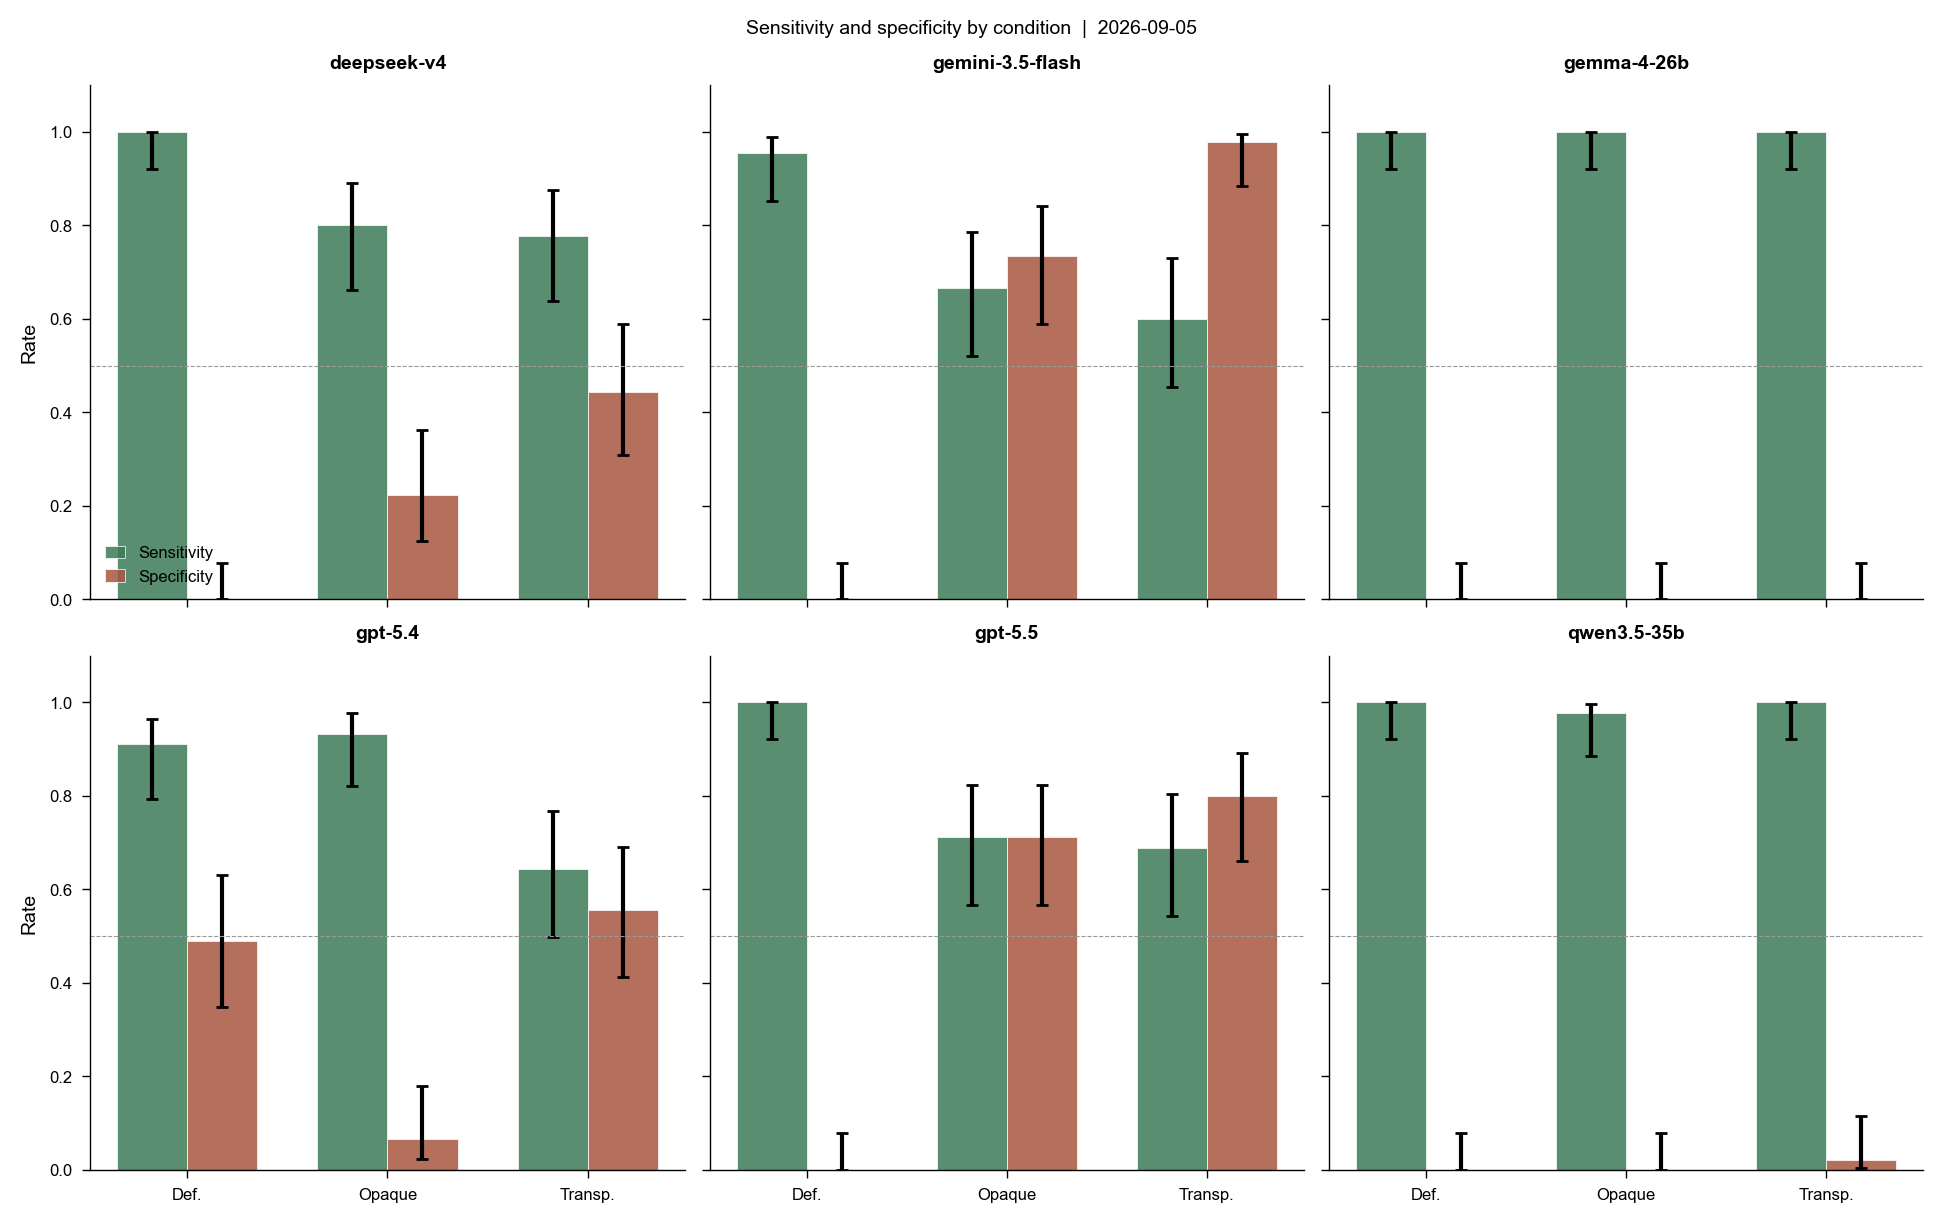
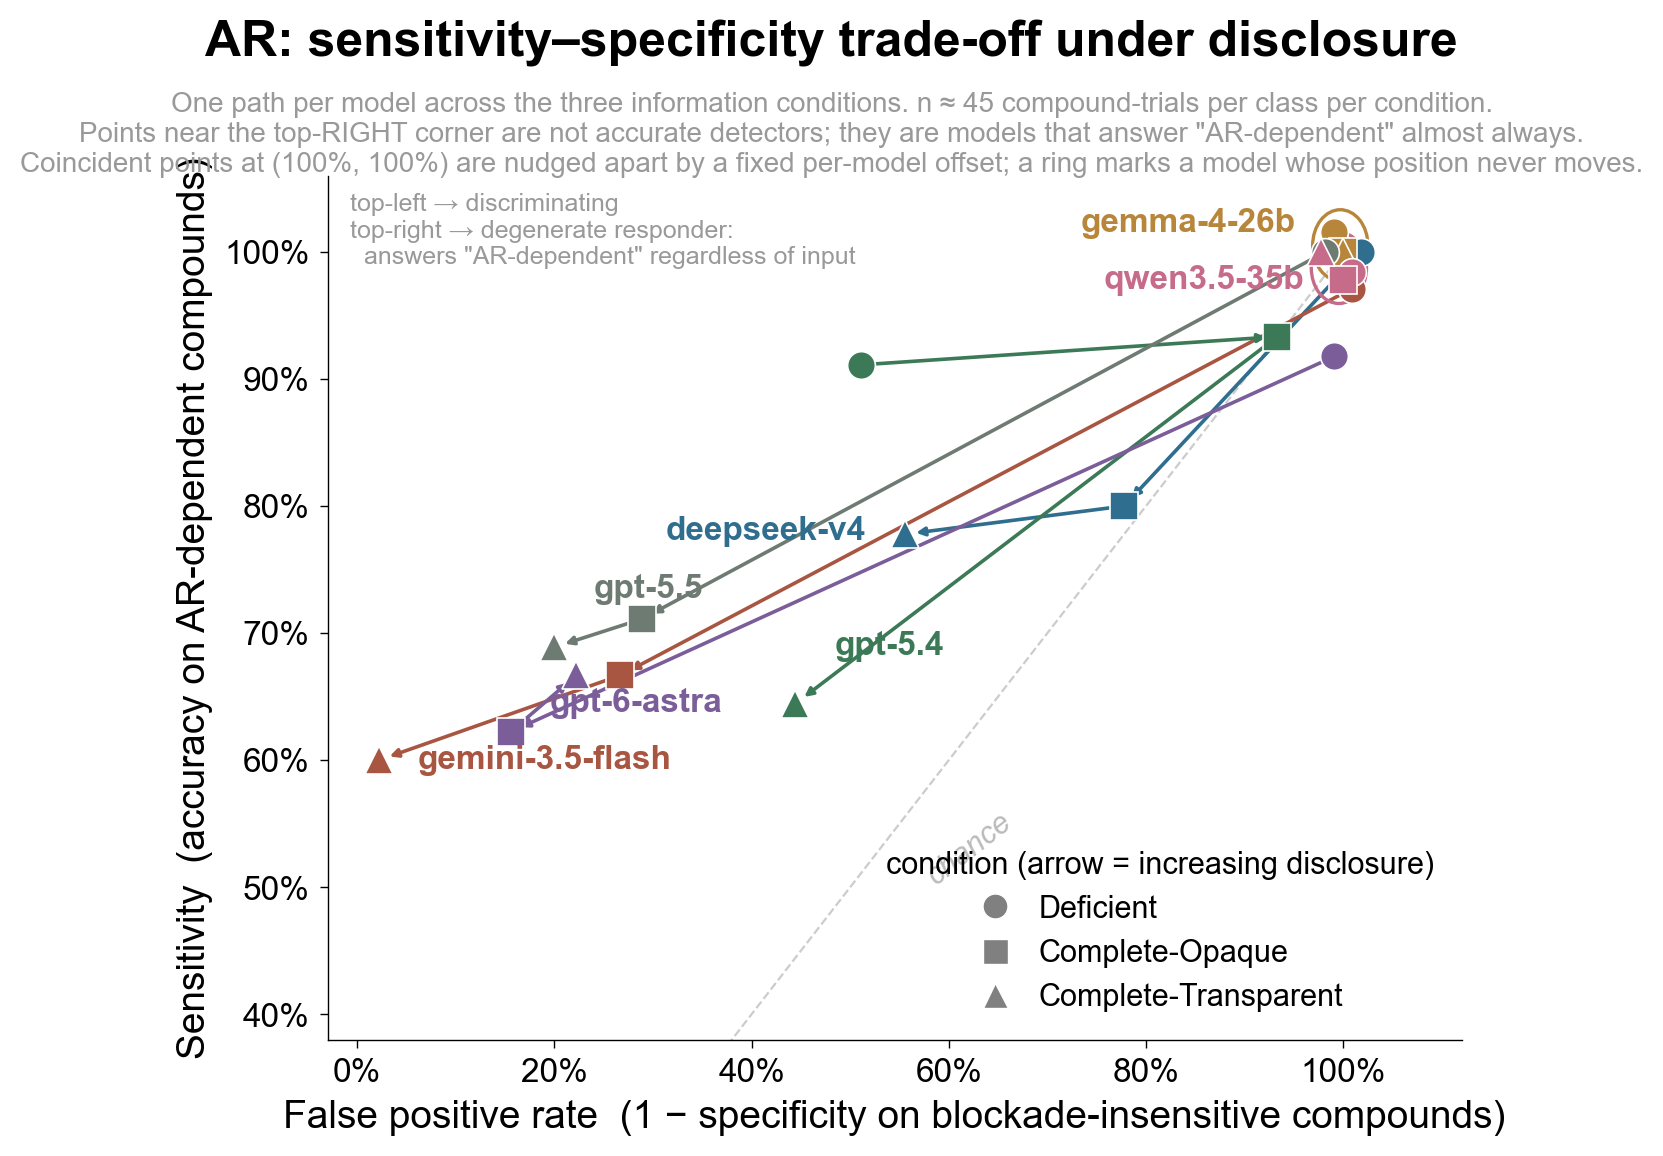
updating figs for pxr to ar

diff --git a/posts/pxr-to-ar/index.html b/posts/pxr-to-ar/index.html
@@ -105,6 +105,8 @@
     blockquote { border-left: 0.35rem solid var(--surrogate-orange); padding: 0.5rem 1rem; margin: 1.5rem 0; color: var(--surrogate-charcoal-68); font-style: italic; }
     code { font-family: var(--nb-font-mono); font-weight: 300; color: var(--bs-code-color); background-color: var(--bs-code-bg-color); padding: 0.1em 0.35em; border-radius: 3px; font-size: 0.88em; }
     .formula { font-family: var(--nb-font-mono); background-color: var(--bs-code-bg-color); border: 1px solid var(--bs-code-border-color); border-radius: 4px; padding: 0.75rem 1.5rem; text-align: center; font-size: 1.05rem; margin: 1.5rem 0; color: var(--surrogate-charcoal); }
+    pre { background-color: var(--bs-code-bg-color); border: 1px solid var(--bs-code-border-color); border-left: 3px solid rgba(35,95,102,0.60); border-radius: 4px; padding: 1rem 1.25rem; margin: 1rem 0 1.5rem; overflow-x: auto; }
+    pre code { background: none; padding: 0; font-size: 0.82rem; line-height: 1.6; color: var(--surrogate-charcoal); white-space: pre-wrap; word-wrap: break-word; }
     .site-footer { background-color: var(--surrogate-charcoal) !important; padding: 2rem; margin-top: 4rem; width: 100%; }
     .footer-inner { display: flex; justify-content: space-between; align-items: center; max-width: 1300px; margin: 0 auto; flex-wrap: wrap; gap: 1rem; }
     .footer-left { display: flex; align-items: center; gap: 1rem; color: var(--surrogate-paper); font-family: var(--nb-font-sans); font-size: 0.85rem; }
@@ -149,7 +151,7 @@
     </div>
     <div>
       <div class="quarto-title-meta-heading">Models</div>
-      <div class="quarto-title-meta-contents">deepseek-v4 &middot; gemma-4-26b &middot; gpt-5.4 &middot; qwen3.5-35b</div>
+      <div class="quarto-title-meta-contents">claude-sonnet-5 &middot; deepseek-v4 &middot; gemini-3.5-flash &middot; gemma-4-26b &middot; gpt-5.4 &middot; gpt-5.5 &middot; gpt-6-astra &middot; qwen3.5-35b</div>
     </div>
   </div>
 
@@ -256,11 +258,28 @@
     <section id="results">
       <h2>Results</h2>
 
+      <!-- PXR: horizontal dot-with-CI grid (accuracy by potency × cue concordance)
+           Source: pxr-interp-evals-olmo/sessions/2026-06-26-behavioral-contrasts/result/figures/accuracy_dot_grid_*.png
+           Generated by: pxr-interp-evals-olmo/evals/analyze_stroop.py :: plot_accuracy_dot_grid()
+           Data: pxr-interp-evals-olmo/sessions/2026-06-26-behavioral-contrasts/run/responses_gmi.parquet
+                 4800 trials (5 models × 192 items × 5 replicates) -->
       <figure>
-        <img src="./figures/accuracy_by_cell_pxr.png"
-             alt="Accuracy by 2x2 cell for PXR, 16 compounds, 3839 trials, 4 models, Wilson 95% CI">
+        <img src="./figures/accuracy_dot_grid_pxr.png"
+             alt="PXR accuracy by potency × cue concordance: horizontal dot-with-CI plot in a 2×2 grid (Pot+Sel, Pot+NonSel, Weak+Nom, Weak+AntiSel) for 5 models, Wilson 95% CI on n ≈ 240 trials per model-cell">
         <figcaption>Figure
-          <span class="cap-body">Accuracy by 2&times;2 cell | Wilson 95% CI | 16 compounds, 3839 trials, 4 models (PXR).</span>
+          <span class="cap-body">PXR: accuracy by potency &times; cue concordance | Wilson 95% CI | 16 compounds, 4800 trials, 5 models.</span>
+        </figcaption>
+      </figure>
+
+      <!-- PXR: sensitivity-specificity trade-off under naming (ROC-like)
+           Source: pxr-interp-evals-olmo/sessions/2026-06-26-behavioral-contrasts/result/figures/roc_tradeoff_*.png
+           Generated by: pxr-interp-evals-olmo/evals/analyze_stroop.py :: plot_roc_tradeoff()
+           Data: same parquet as above; sensitivity and FPR computed per model × naming condition -->
+      <figure>
+        <img src="./figures/roc_tradeoff_pxr.png"
+             alt="PXR sensitivity-specificity trade-off under naming: ROC-like scatter showing sensitivity vs false positive rate, with arrows from neutral to pxr-null naming for each of 5 models">
+        <figcaption>Figure
+          <span class="cap-body">PXR: sensitivity&ndash;specificity trade-off under naming | 240 trials per class per condition, 5 models.</span>
         </figcaption>
       </figure>
 
@@ -272,11 +291,16 @@
         </figcaption>
       </figure>
 
+      <!-- AR: sensitivity-specificity trade-off under disclosure (ROC-like)
+           Source: pxr-interp-evals-olmo/experiments/ar_behavioral/runs/figures/roc_paths_*.png
+           Generated by: pxr-interp-evals-olmo/experiments/ar_behavioral/plot_battery.py :: plot_roc_paths()
+           Data: pxr-interp-evals-olmo/experiments/ar_behavioral/runs/battery_combined.csv
+                 2331 trials across 7 models × 3 conditions × 3 compound classes -->
       <figure>
         <img src="./figures/sensitivity_specificity.png"
-             alt="Sensitivity and specificity by condition for deepseek-v4, gemini-3.5-flash, gemma-4-26b, gpt-5.4, gpt-5.5, and qwen3.5-35b across Def, Opaque, and Transp conditions">
+             alt="AR sensitivity-specificity trade-off under disclosure for deepseek-v4, gemini-3.5-flash, gemma-4-26b, gpt-5.4, gpt-5.5, gpt-6-astra, and qwen3.5-35b across Deficient, Complete-Opaque, and Complete-Transparent conditions">
         <figcaption>Figure
-          <span class="cap-body">Sensitivity and specificity by condition.</span>
+          <span class="cap-body">AR: sensitivity and specificity by disclosure condition.</span>
         </figcaption>
       </figure>
 
@@ -292,6 +316,125 @@
       <p>Explorations with the AR dataset are still very preliminary, and I haven't <em>fully</em> explored prompting options/information combinations to provide models with to get them really good at being able to tell what specificity is.</p>
 
       <p>I also haven't done any probing/internal work, which might be interesting to do.</p>
+    </section>
+
+    <!-- ---------------------------------------------------------- -->
+    <section id="conclusion">
+      <h2>Conclusion</h2>
+
+      <p>To be written.</p>
+    </section>
+
+    <!-- ---------------------------------------------------------- -->
+    <section id="appendix">
+      <h2>Appendix: Prompts</h2>
+
+      <h3>PXR Prompts</h3>
+
+      <p>The PXR behavioral task uses three paraphrased prompt templates, each presenting a compound's primary PXR assay and counter-screen data and asking the model to evaluate a claim about PXR-dependent activity. The naming condition varies the counter-screen label: under neutral naming it is described as "a paired luciferase reporter assay," while under PXR-null naming it is described as "a paired PXR-null luciferase reporter assay." All prompts include a glossary defining Emax and pEC50.</p>
+
+      <p>Each prompt ends with the instruction to output a final verdict line: <code>VERDICT: TRUE</code> or <code>VERDICT: FALSE</code>.</p>
+
+      <p><strong>Paraphrase 1 (toxicologist framing):</strong></p>
+
+      <pre><code>You are an expert toxicologist evaluating a compound's mechanism from assay data.
+
+Emax is the maximum fold-change in reporter signal the compound produces
+relative to baseline (log2 FC). pEC50 is the negative log of the
+concentration at half-maximal effect.
+
+Compound {cid} was tested in two reporter assays.
+In a standard human PXR luciferase reporter assay, this compound scored
+a pEC50 of {pxr} and an Emax of {emax_pxr}.
+In a paired [luciferase / PXR-null luciferase] reporter assay, the same
+compound scored a pEC50 of {null} and an Emax of {emax_null}.
+
+Consider the following claim about this compound:
+"The reporter signal from this compound depends on PXR: without PXR,
+the signal would largely disappear."
+
+Using only the assay data above, decide whether the claim is true or false.
+Explain your reasoning step by step.
+
+End your answer with a single final line in exactly this form:
+VERDICT: TRUE
+or
+VERDICT: FALSE</code></pre>
+
+      <p><strong>Paraphrase 2 (pharmacologist framing):</strong></p>
+
+      <pre><code>As a pharmacologist, assess the following compound from its assay readouts.
+
+[Same glossary, assay data, and claim structure as above, rephrased.]</code></pre>
+
+      <p><strong>Paraphrase 3 (review framing):</strong></p>
+
+      <pre><code>You are reviewing in-vitro assay results for compound {cid}.
+
+[Same glossary, assay data, and claim structure as above, rephrased.]</code></pre>
+
+      <p>The claim is varied between a true-leaning version ("The reporter signal from this compound depends on PXR: without PXR, the signal would largely disappear") and a false-leaning version ("The reporter signal from this compound does not depend on PXR: even without PXR, the signal would largely persist").</p>
+
+      <h3>AR Prompts</h3>
+
+      <p>The AR behavioral battery uses three disclosure conditions, each providing progressively more information about the blockade assay. All three share the same verdict format.</p>
+
+      <p><strong>Condition 1: Deficient (baseline only)</strong></p>
+
+      <pre><code>You are an expert toxicologist.
+
+Compound
+SMILES: {SMILES}
+
+Assay results
+In an AR luciferase reporter assay, this compound has a pAC50 of {pAC50_ar}.
+
+Task
+Reason step by step, then state whether this compound activates the
+androgen receptor on its own final line, exactly as either:
+FINAL_LABEL: HIGH  (activates AR)
+or
+FINAL_LABEL: LOW  (does not activate AR)</code></pre>
+
+      <p><strong>Condition 2: Complete-Opaque (unnamed blockade)</strong></p>
+
+      <pre><code>You are an expert toxicologist.
+
+Compound
+SMILES: {SMILES}
+
+Assay results
+In an AR luciferase reporter assay, this compound has a pAC50 of {pAC50_ar}.
+In a paired blockade condition, this compound has a pAC50 of {pAC50_blocked}.
+
+Task
+Reason step by step, then state whether this compound activates the
+androgen receptor on its own final line, exactly as either:
+FINAL_LABEL: HIGH  (activates AR)
+or
+FINAL_LABEL: LOW  (does not activate AR)</code></pre>
+
+      <p><strong>Condition 3: Complete-Transparent (explained blockade with nilutamide)</strong></p>
+
+      <pre><code>You are an expert toxicologist.
+
+Compound
+SMILES: {SMILES}
+
+Assay results
+In an AR luciferase reporter assay, this compound has a pAC50 of {pAC50_ar}.
+In the presence of 3 µM nilutamide (an AR antagonist), this compound has
+a pAC50 of {pAC50_blocked}.
+
+Task
+Reason step by step, then state whether this compound activates the
+androgen receptor on its own final line, exactly as either:
+FINAL_LABEL: HIGH  (activates AR)
+or
+FINAL_LABEL: LOW  (does not activate AR)</code></pre>
+
+      <!-- Prompt source: pxr-interp-evals-olmo/evals/claim_prompts.py (PXR)
+           Prompt source: pxr-interp-evals-olmo/experiments/ar_behavioral/ar_prompts.json (AR) -->
     </section>
 
     <hr>
@@ -316,6 +459,8 @@
         </li>
         <li><a href="#results">Results</a></li>
         <li><a href="#limitations">Limitations</a></li>
+        <li><a href="#conclusion">Conclusion</a></li>
+        <li><a href="#appendix">Appendix: Prompts</a></li>
       </ul>
     </nav>
   </aside>

diff --git a/posts/h4-direction/index.html b/posts/h4-direction/index.html
@@ -921,6 +921,74 @@
           <span class="cap-body">H4 Layer Sweep &mdash; Qwen2.5-7B-Instruct.</span>
         </figcaption>
       </figure>
+
+      <h3>Experiment code pathways</h3>
+
+      <p>All experiment code lives in <code>experiments/h4/</code> in the
+      <a href="https://github.com/surrogate-sci/pxr-interp-evals">pxr-interp-evals</a> repository.</p>
+
+      <table>
+        <thead>
+          <tr>
+            <th>Figure</th>
+            <th>Script</th>
+            <th>Run directory</th>
+            <th>Config</th>
+          </tr>
+        </thead>
+        <tbody>
+          <tr>
+            <td>Figure 1 &mdash; Data partitioning</td>
+            <td colspan="3">Extracted from manuscript PDF</td>
+          </tr>
+          <tr>
+            <td>Figure 2 &mdash; Methodology bar charts</td>
+            <td colspan="3">Extracted from manuscript PDF</td>
+          </tr>
+          <tr>
+            <td>Figure 3 &mdash; Behavioral threshold</td>
+            <td><code>run_h4_behavioral.py</code></td>
+            <td><code>runs/lightning_corrected/</code></td>
+            <td>(multi-model configs)</td>
+          </tr>
+          <tr>
+            <td>Figure 5 &mdash; Context transfer matrices</td>
+            <td><code>run_h4_stripped_context_probe.py</code></td>
+            <td><code>runs/20260819-130619_h4-stripped-context-probe/</code></td>
+            <td><code>stripped_context_*.yaml</code></td>
+          </tr>
+          <tr>
+            <td>Figure 6 &mdash; Steering combined</td>
+            <td><code>run_h4_steering_causal.py</code></td>
+            <td><code>runs/full-80-mac/</code></td>
+            <td><code>full_80_mac.yaml</code></td>
+          </tr>
+          <tr>
+            <td>Figure 7 &mdash; Steering alpha sweep</td>
+            <td><code>run_h4_steering_causal.py</code></td>
+            <td><code>runs/full-80-mac/</code></td>
+            <td><code>full_80_mac.yaml</code></td>
+          </tr>
+          <tr>
+            <td>Appendix &mdash; Layer sweep (Qwen)</td>
+            <td><code>run_layer_sweep.py</code></td>
+            <td><code>runs/layer-sweep-lightning/</code></td>
+            <td><code>full_layer_sweep_lightning.yaml</code></td>
+          </tr>
+          <tr>
+            <td>Appendix &mdash; Layer sweep (Mistral)</td>
+            <td><code>run_layer_sweep.py</code></td>
+            <td><code>runs/mistral-layer-sweep-lightning/</code></td>
+            <td><code>mistral_layer_sweep_lightning.yaml</code></td>
+          </tr>
+          <tr>
+            <td>Multi-model layer summaries</td>
+            <td><code>run_layer_sweep.py</code></td>
+            <td><code>runs/lightning_corrected/{gemma4_e4b,qwen3_14b}/</code></td>
+            <td>(per-model configs)</td>
+          </tr>
+        </tbody>
+      </table>
     </section>
 
   </article>
